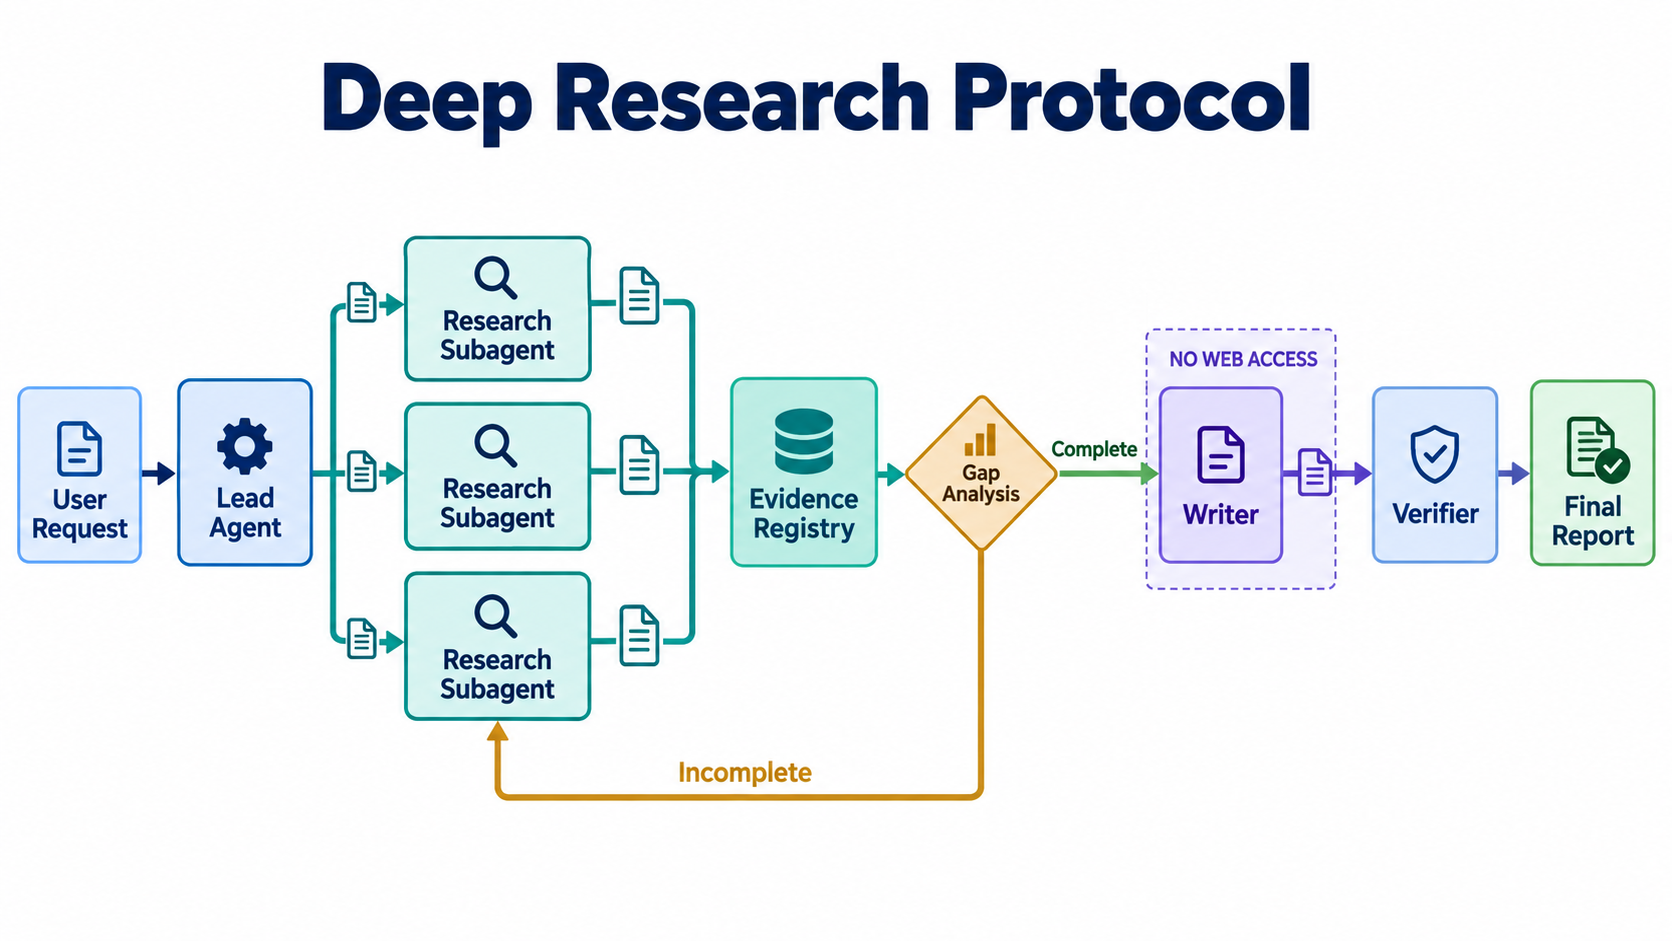
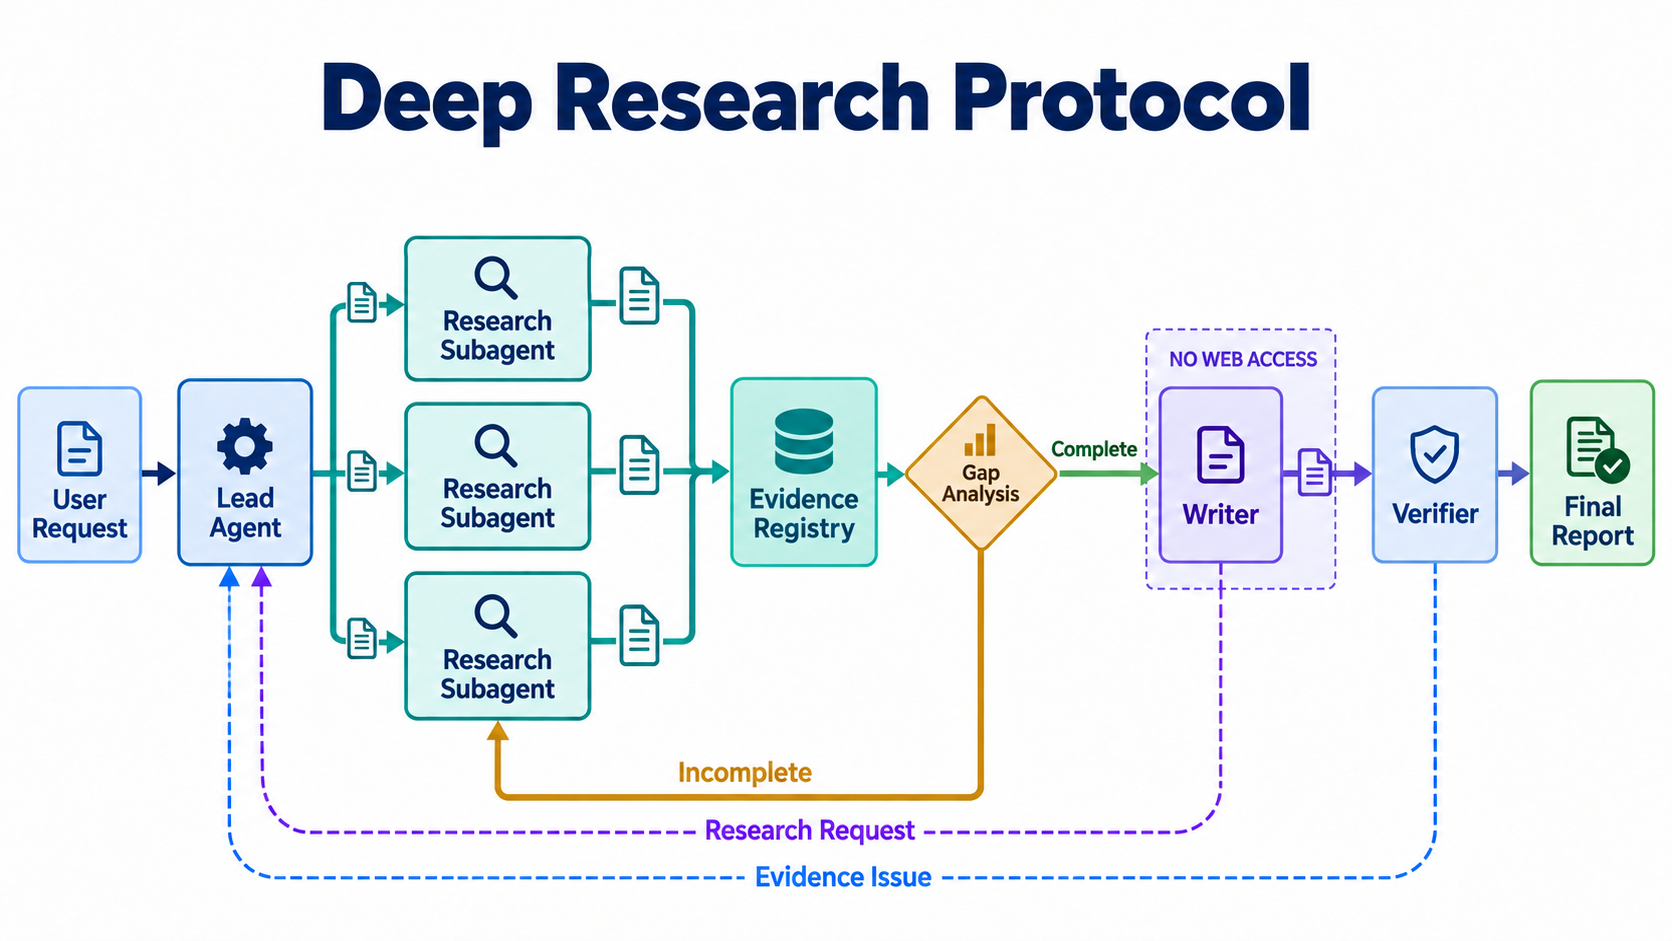
Add bounded adaptive research feedback

diff --git a/skills/deep-research-protocol/scripts/validate_run.py b/skills/deep-research-protocol/scripts/validate_run.py
@@ -10,6 +10,11 @@ import sys
 from pathlib import Path
 
 CLAIM_MARKER = re.compile(r"\[\[(C[0-9A-Za-z_-]+)\]\]")
+DEFAULT_BUDGETS = {
+    "max_total_research_workstreams": 20,
+    "max_gap_research_rounds": 3,
+    "max_synthesis_return_rounds": 2,
+}
 
 
 def load_jsonl(path: Path, errors: list[str]) -> list[dict]:
@@ -91,6 +96,47 @@ def validate(run: Path, publish: bool = False) -> list[str]:
         return validate_audit(run, publish)
 
     errors: list[str] = []
+    raw_budgets = state.get("budgets", {})
+    if not isinstance(raw_budgets, dict):
+        errors.append("budgets must be an object")
+        raw_budgets = {}
+    unsupported = sorted(set(raw_budgets) - set(DEFAULT_BUDGETS))
+    if unsupported:
+        errors.append(f"unsupported budgets: {', '.join(unsupported)}")
+    budgets = DEFAULT_BUDGETS.copy()
+    for name, default in DEFAULT_BUDGETS.items():
+        value = raw_budgets.get(name, default)
+        if type(value) is not int or value < 0:
+            errors.append(f"invalid budget {name}: {value!r}")
+        else:
+            budgets[name] = value
+
+    usage = state.get("usage", {})
+    if not isinstance(usage, dict):
+        errors.append("usage must be an object")
+        usage = {}
+
+    tasks = load_jsonl(run / "task_manifest.jsonl", errors)
+    workstreams_created = usage.get("research_workstreams_created", len(tasks))
+    gap_rounds = usage.get("gap_research_rounds_completed", 0)
+    synthesis_rounds = usage.get("synthesis_return_rounds_completed", 0)
+    counters = {
+        "research_workstreams_created": workstreams_created,
+        "gap_research_rounds_completed": gap_rounds,
+        "synthesis_return_rounds_completed": synthesis_rounds,
+    }
+    for name, value in counters.items():
+        if type(value) is not int or value < 0:
+            errors.append(f"invalid usage counter {name}: {value!r}")
+
+    effective_workstreams = max(len(tasks), workstreams_created) if type(workstreams_created) is int else len(tasks)
+    if effective_workstreams > budgets.get("max_total_research_workstreams", 20):
+        errors.append("research workstream budget exceeded")
+    if type(gap_rounds) is int and gap_rounds > budgets["max_gap_research_rounds"]:
+        errors.append("gap-research round budget exceeded")
+    if type(synthesis_rounds) is int and synthesis_rounds > budgets["max_synthesis_return_rounds"]:
+        errors.append("synthesis-return round budget exceeded")
+
     registry = run / "registry"
     sources = index(load_jsonl(registry / "sources.jsonl", errors), "source", errors)
     evidence = index(load_jsonl(registry / "evidence.jsonl", errors), "evidence", errors)
@@ -155,6 +201,9 @@ def validate(run: Path, publish: bool = False) -> list[str]:
         for gap_id, gap in gaps.items():
             if gap.get("severity") == "critical" and gap.get("status") == "open":
                 errors.append(f"open critical gap: {gap_id}")
+        writer_requests = run / "article" / "writer_requests.md"
+        if writer_requests.exists() and writer_requests.read_text(encoding="utf-8").strip():
+            errors.append("unresolved writer request blocks publication")
 
     return errors
 

diff --git a/skills/deep-research-protocol/tests/test_protocol_scripts.py b/skills/deep-research-protocol/tests/test_protocol_scripts.py
@@ -21,7 +21,25 @@ class ProtocolScriptsTest(unittest.TestCase):
         (run / "registry").mkdir()
         (run / "article").mkdir()
         (run / "writer_packet").mkdir()
-        (run / "state.json").write_text('{"mode":"new"}', encoding="utf-8")
+        (run / "state.json").write_text(
+            json.dumps(
+                {
+                    "mode": "new",
+                    "budgets": {
+                        "max_total_research_workstreams": 20,
+                        "max_gap_research_rounds": 3,
+                        "max_synthesis_return_rounds": 2,
+                    },
+                    "usage": {
+                        "research_workstreams_created": 1,
+                        "gap_research_rounds_completed": 0,
+                        "synthesis_return_rounds_completed": 0,
+                    },
+                }
+            ),
+            encoding="utf-8",
+        )
+        write_jsonl(run / "task_manifest.jsonl", [{"id": "T001"}])
         write_jsonl(
             run / "registry" / "sources.jsonl",
             [{"id": "S001", "title": "Source", "url": "https://example.com", "source_type": "primary", "independence_group": "origin"}],
@@ -73,6 +91,28 @@ class ProtocolScriptsTest(unittest.TestCase):
         run = self.make_run()
         (run / "state.json").write_text('{"mode":"resume"}', encoding="utf-8")
         self.assertIn("invalid mode: 'resume'; expected 'new' or 'audit'", validate(run))
+
+    def test_total_workstream_budget(self) -> None:
+        run = self.make_run()
+        write_jsonl(run / "task_manifest.jsonl", [{"id": f"T{i:03d}"} for i in range(21)])
+        self.assertIn("research workstream budget exceeded", validate(run))
+
+    def test_round_budgets(self) -> None:
+        run = self.make_run()
+        state = json.loads((run / "state.json").read_text(encoding="utf-8"))
+        state["usage"]["gap_research_rounds_completed"] = 4
+        state["usage"]["synthesis_return_rounds_completed"] = 3
+        (run / "state.json").write_text(json.dumps(state), encoding="utf-8")
+        errors = validate(run)
+        self.assertIn("gap-research round budget exceeded", errors)
+        self.assertIn("synthesis-return round budget exceeded", errors)
+
+    def test_writer_request_blocks_publication(self) -> None:
+        run = self.make_run()
+        (run / "article" / "writer_requests.md").write_text(
+            "More evidence is needed for section 3.\n", encoding="utf-8"
+        )
+        self.assertIn("unresolved writer request blocks publication", validate(run, publish=True))
 
     def test_audit_workspace(self) -> None:
         run = self.make_run()

diff --git a/skills/deep-research-protocol/SKILL.md b/skills/deep-research-protocol/SKILL.md
@@ -61,6 +61,16 @@ Core invariants:
 7. Budget exhaustion is a stop reason, not evidence of completion.
 8. Missing evidence must remain an explicit gap or unknown.
 
+## Default research budget
+
+Unless the user explicitly approves a larger budget, a `new` run has three limits:
+
+- at most 20 total Research workstreams across initial research, gap follow-ups, synthesis-stage returns, verifier-requested research, and replacement workstreams;
+- at most 3 gap-research rounds before synthesis;
+- at most 2 synthesis-return rounds initiated by the Writer or Verifier after synthesis begins.
+
+Parallelism is determined by the host environment and is not a protocol budget. A round may contain multiple workstreams, but every workstream counts toward the total of 20.
+
 ## Lead Agent workflow
 
 1. Create the run workspace and research contract.
@@ -70,10 +80,10 @@ Core invariants:
 5. Spawn one independent subagent per workstream. Never allow concurrent workers to edit a shared registry.
 6. Wait for all workstreams, then inspect their structured handoffs and status files.
 7. Merge and deduplicate sources, evidence, candidate claims, gaps, and contradictions into `registry/`.
-8. Recalculate coverage. Create targeted follow-up workstreams for unresolved critical gaps.
+8. Recalculate coverage. Create targeted follow-up workstreams for unresolved critical gaps while budget remains.
 9. Enter synthesis only after the research-complete gate passes.
 10. Build `writer_packet/`, spawn the non-browsing Writer, then spawn the Verifier.
-11. Route writing defects back to the Writer and evidence defects back to new research workstreams.
+11. When the Writer or Verifier returns an evidence need, decide whether more research is warranted, cluster related needs into bounded workstreams, dispatch Research subagents within budget, integrate their outputs, rebuild the Writer Packet, and return control to synthesis.
 12. Run the deterministic validator and renderer before delivery.
 
 The Lead Agent may inspect raw captures only to resolve malformed artifacts, duplicate sources, disputed handoffs, or integration errors. It must not use that exception to replace a missing Researcher.
@@ -93,7 +103,11 @@ Writing may begin only when:
 
 Read [references/writing-protocol.md](references/writing-protocol.md) only after the research-complete gate passes.
 
-The Writer may read only persisted project material. It must not use web search, search MCP, browser automation, computer use, external URLs, or model memory as factual support. If the writing packet is insufficient, it writes `writer_gaps.jsonl` and stops the affected section. The Lead Agent then creates a new research workstream.
+The Writer may read only persisted project material. It must not use web search, search MCP, browser automation, computer use, external URLs, or model memory as factual support.
+
+The Writer decides whether insufficient or conflicting material requires more research, can be responsibly qualified or presented as uncertainty, should be omitted, or should remain an explicit limitation. When more research is needed, it explains the need in free-form `article/writer_requests.md`, stops the affected section, and returns control to the Lead Agent. The file has no required schema.
+
+The Lead Agent decides whether to dispatch more research and how many workstreams to create. It must not treat one Writer request as automatically equal to one workstream. After resolving the request, record the decision in `decisions.md`; publishing remains blocked while `article/writer_requests.md` is non-empty.
 
 Every factual proposition in the draft must carry an approved claim marker such as `[[C017]]`. Final source citations are rendered from the claim-evidence graph.
 

diff --git a/skills/deep-research-protocol/references/new-mode.md b/skills/deep-research-protocol/references/new-mode.md
@@ -24,6 +24,8 @@ Include, when relevant, facts and definitions, mechanisms and causes, comparison
 
 Write `task_manifest.jsonl`. For each task, create `workstreams/<task-id>/task.md` and `status.json` before spawning its subagent.
 
+Use the default limits from `SKILL.md`: 20 total Research workstreams, 3 gap-research rounds, and 2 synthesis-return rounds. User-approved overrides belong in `state.json`. Do not add separate limits for source count, retries, or parallel workers.
+
 ## Phase 4: Independent research
 
 Spawn a separate Researcher for every workstream using the contract in `subagent-contracts.md`.
@@ -56,12 +58,18 @@ Write gaps to `registry/gaps.jsonl` and contradictions to `registry/contradictio
 
 Create new, narrowly scoped workstreams for the highest-priority open gaps. Do not tell an existing Researcher merely to "research more."
 
-End the loop when the research-complete gate in `SKILL.md` passes. Stop with a qualified outcome if the declared budget is exhausted, preserving all unresolved gaps.
+One gap-research round starts when the Lead dispatches one or more workstreams from a coverage review and ends after their outputs are integrated and coverage is recalculated. Stop after 3 rounds unless the user approves more.
+
+End the loop when the research-complete gate in `SKILL.md` passes. If the total Workstream or round budget is exhausted, ask the user to expand it or stop with a qualified outcome while preserving unresolved gaps.
 
 ## Phase 8: Synthesis and verification
 
 The Lead Agent builds `writer_packet/` from admitted claims only. Spawn one Writer for the first version to preserve voice and terminology. The Writer writes chapter by chapter but remains one role with one evidence boundary.
 
+The Writer judges whether insufficient or conflicting material requires research, can be qualified or presented as uncertainty, should be omitted, or must remain an explicit limitation. When research is needed, the Writer writes a free-form explanation to `article/writer_requests.md` and returns control to the Lead.
+
+The Lead interprets and clusters related requests, decides whether research is warranted, creates bounded workstreams within the shared total budget, integrates new outputs through the normal Evidence Admission path, rebuilds the Writer Packet, and returns it to the Writer. One such cycle is one synthesis-return round, regardless of how many workstreams it contains. Writer- and Verifier-initiated research share the default limit of 2 synthesis-return rounds.
+
 After the draft is complete, spawn an independent Verifier. The Verifier uses only persisted project material and reports findings without silently editing the report.
 
-Route prose, structure, or qualifier errors to the Writer; unsupported or missing evidence to a new Researcher workstream; malformed registries to the Lead Agent; and irreducible uncertainty to explicit disclosure in the report.
+Route prose, structure, or qualifier errors to the Writer; unsupported or missing evidence to the Lead for possible new Research workstreams; malformed registries to the Lead Agent; and irreducible uncertainty to explicit disclosure in the report. The Verifier may initiate the same synthesis-return loop when it finds a material evidence defect.

diff --git a/skills/deep-research-protocol/references/writing-protocol.md b/skills/deep-research-protocol/references/writing-protocol.md
@@ -20,13 +20,19 @@ The packet is a capability boundary. Do not place unreviewed candidate claims in
 
 The Writer writes only to `article/`, preserves required qualifiers, distinguishes actuals/estimates/forecasts/opinions/unknowns, attaches `[[Cxxx]]` after every factual proposition, and does not introduce substantive material absent from approved claims.
 
-The Writer creates `writer_gaps.jsonl` instead of filling missing material. It may inspect a local raw capture only to understand admitted evidence; it may not fetch the source again or follow links.
+The Writer decides whether insufficient or conflicting material requires additional research, can be responsibly qualified or presented as uncertainty, should be omitted, or should remain an explicit limitation. Do not impose a fixed decision tree for this judgment.
+
+When more research is needed, the Writer explains the problem and useful research direction in free-form `article/writer_requests.md`, stops the affected section, and returns control to the Lead Agent. The request may use paragraphs, lists, tables, or another clear structure; it has no schema. The Writer does not search or dispatch subagents.
+
+The Lead decides whether research is warranted, clusters related requests, dispatches bounded workstreams within budget, admits the resulting evidence, rebuilds the Writer Packet, and returns control to the Writer. Record the resolution in `decisions.md` and clear `article/writer_requests.md` only after the request is resolved or deliberately converted into a disclosed limitation.
+
+The Writer may inspect a local raw capture only to understand admitted evidence; it may not fetch the source again or follow links.
 
 ## Verification
 
 The Verifier checks unknown or missing claim markers, unsupported propositions, numbers, dates, quotations and causal language, dropped qualifiers, claims outside their allowed section, omitted contradictions, inconsistent measurements, missing required claims, and limitations hidden from the reader.
 
-The Verifier reports findings without editing the draft. Each finding identifies an owner: `writer`, `researcher`, or `lead`.
+The Verifier reports findings without editing the draft. Each finding identifies an owner: `writer`, `researcher`, or `lead`. A material evidence defect may initiate the same Lead-controlled synthesis-return loop as a Writer request; it does not grant the Verifier search or dispatch authority.
 
 ## Rendering
 

diff --git a/skills/deep-research-protocol/references/subagent-contracts.md b/skills/deep-research-protocol/references/subagent-contracts.md
@@ -56,9 +56,17 @@ Write only claims present in approved_claims.jsonl. Preserve every required
 qualifier. End each factual proposition with approved claim markers such as
 [[C017]].
 
-If approved material is insufficient, do not fill the gap. Write the missing
-requirement to writer_gaps.jsonl, stop the affected section, and return control
-to the Lead Agent. Write only under article/.
+Judge whether insufficient or conflicting material requires additional
+research, can be responsibly qualified or presented as uncertainty, should be
+omitted, or should remain an explicit limitation. Do not hide a material
+conflict or turn contested evidence into a certain claim.
+
+When more research is needed, explain the problem and useful research direction
+in free-form article/writer_requests.md, stop the affected section, and return
+control to the Lead Agent. Use whatever structure communicates the request most
+clearly; there is no required schema. Do not search or dispatch subagents.
+
+Write only under article/.
 ```
 
 ## Verifier contract
@@ -73,7 +81,9 @@ contradiction treatment, cross-section consistency, and required claims missing
 from the draft.
 
 Write findings to audit/final_audit.md. Classify each finding as blocking,
-major, minor, or note, and route it to Writer, Researcher, or Lead Agent.
+major, minor, or note, and route it to Writer, Researcher, or Lead Agent. A
+material evidence defect may be returned to the Lead for a bounded synthesis-
+return research cycle; do not search or dispatch subagents yourself.
 ```
 
 ## Audit subagent contract

diff --git a/skills/deep-research-protocol/references/schemas.md b/skills/deep-research-protocol/references/schemas.md
@@ -37,6 +37,7 @@ run/
 │   └── limitations.md
 ├── article/
 │   ├── report.draft.md
+│   ├── writer_requests.md
 │   └── report.md
 └── audit/
     └── final_audit.md
@@ -67,8 +68,12 @@ run/
 ## State
 
 ```json
-{"run_id":"2026-09-19-example","mode":"new","phase":"targeted_research","iteration":2,"status":"active","open_critical_gaps":1,"budgets":{"max_search_rounds":8,"max_sources":250,"deadline":null},"stop_reason":null,"next_actions":["Resolve G003 using primary filings"]}
+{"run_id":"2026-09-19-example","mode":"new","phase":"targeted_research","iteration":2,"status":"active","open_critical_gaps":1,"budgets":{"max_total_research_workstreams":20,"max_gap_research_rounds":3,"max_synthesis_return_rounds":2},"usage":{"research_workstreams_created":8,"gap_research_rounds_completed":2,"synthesis_return_rounds_completed":0},"stop_reason":null,"next_actions":["Resolve G003 using primary filings"]}
 ```
+
+These are the only default protocol budgets. Parallelism is host-controlled. Do not add default limits for sources, retries, individual agents, or wall-clock time.
+
+`article/writer_requests.md` is a free-form blocking handoff, not a structured schema. While it contains non-whitespace content, the run is not publishable.
 
 ## Task manifest
 

diff --git a/README.md b/README.md
@@ -13,6 +13,8 @@ The protocol separates four responsibilities:
 
 Every handoff is persisted in files, and deterministic scripts validate claim-evidence-source links before publication.
 
+Writer and Verifier can return unresolved evidence needs to the Lead Agent, which may dispatch additional bounded Research workstreams before publication. The default research budget permits 20 total workstreams, 3 gap-research rounds, and 2 synthesis-return rounds.
+
 ## Repository layout
 
 ```text
